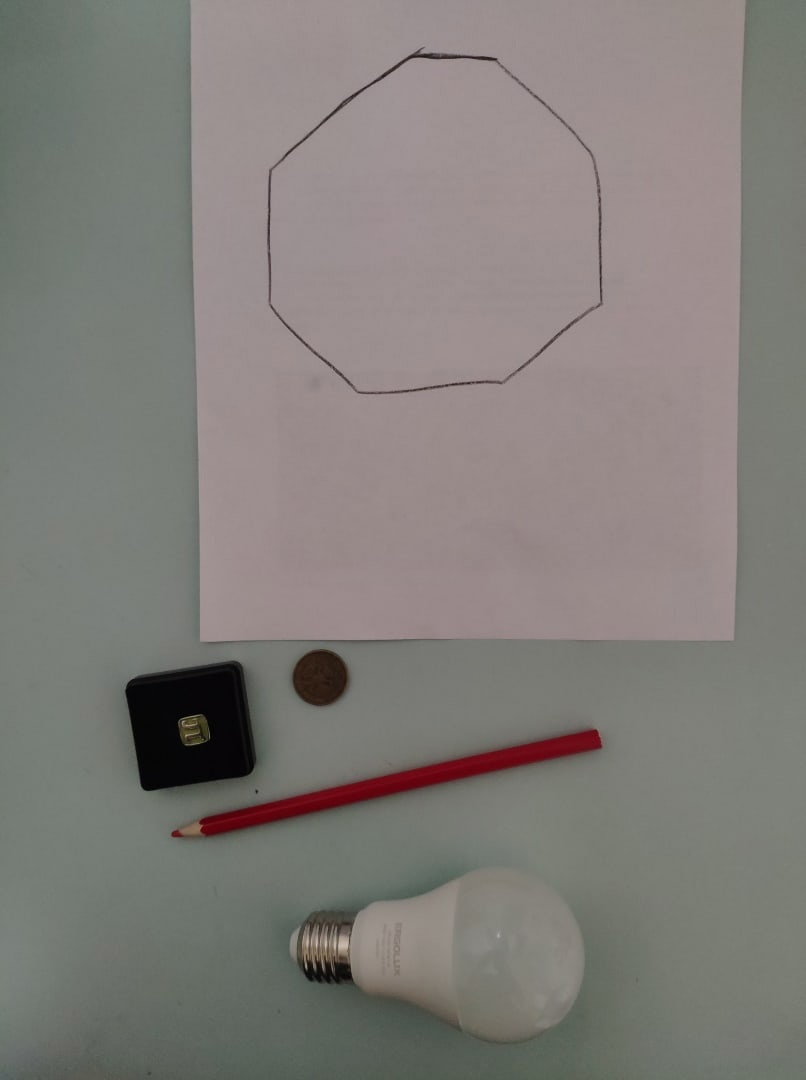
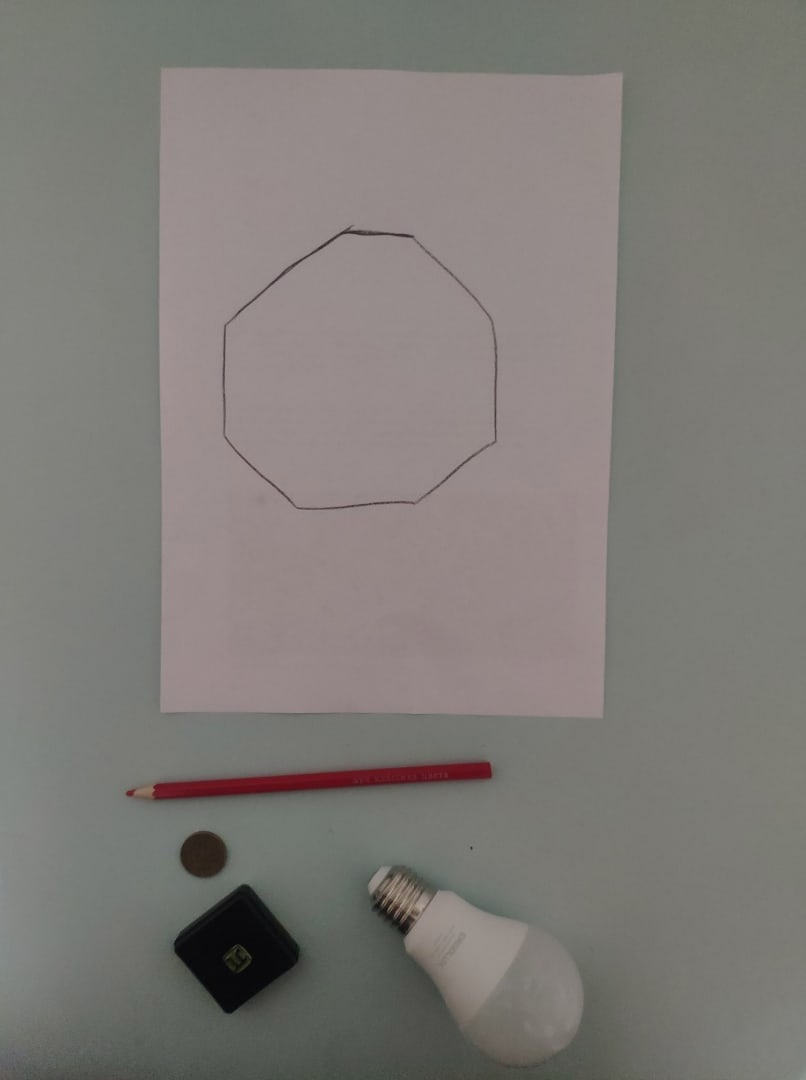
Исправлены фотографии и добавлено чуть больше делателй в описании

diff --git a/README.md b/README.md
@@ -7,6 +7,7 @@
 <h3>Предметы</h3>
   <ul>
     <li>Объект не выходит за границы листа</li>
+    <li>Лист виден целиком</li>
     <li>Предметы находятся на некотором расстоянии от границ листа</li>
     <li>Объекты не могут перекрывать друг друга</li>
   </ul>
@@ -19,7 +20,7 @@
 <h3>Фотографии</h3>
   <ul>
     <li>Фон светлый</li>
-    <li>Освещение комнатное(равномерное)</li>
+    <li>Освещение комнатное(равномерное и без тёмных областей)</li>
     <li>Делаются на высоте 30-60 см от поверхности</li>
     <li>Угол наклона 85-90 градусов</li>
     <li>Формат ".jpg"</li>
